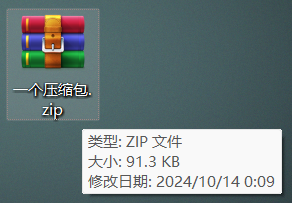
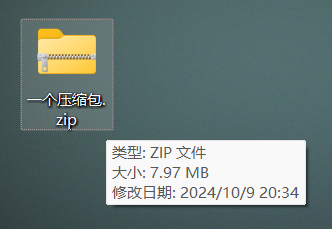
update

diff --git a/docs/tutorial/unzip.md b/docs/tutorial/unzip.md
@@ -1,20 +1,16 @@
 # 指南：压缩与解压缩
 
-::: warning :pencil2: 编辑中
-本页面还在编辑中，可能存在缺失段落、排版异常等问题。
-:::
-
 有时，我们会遇到一种特殊的[文件](/concept/file)，它的内部包含了许多其它文件，就像文件夹一样。这种像文件夹一样包含了许多文件、但是自己本身就是一个独立的文件，我们称之为**压缩包**，或者叫**压缩文件**。
 
 ::: details 常见的压缩文件[后缀名](/concept/file_extension)
-最常用的压缩文件后缀名是 .zip、.rar、.7z。这三种后缀名分别代表了 3 种不同的压缩方式。也有 .lz4、.tar、.zipx、.iso 等不常见的格式。
+最常用的压缩文件后缀名是 ```.zip``` ```.rar``` ```.7z```。这三种后缀名分别代表了 3 种不同的压缩方式。也有 ```.lz4``` ```.tar``` ```.zipx``` ```.iso``` 等不常见的格式。
 :::
 
 不同的压缩软件显示的压缩包图标：（其中，WinRAR 的「皮带绑书」图标是最经典的压缩包图标，已经成为了压缩包的代表性标志）
 
 | ![1](/pic/windows_explorer_zip_icon.png) | ![2](/pic/bandizip_zip_icon.png) | ![3](/pic/winrar_zip_icon.png) |
-|:----------------------------------------:|:--------------------------------:|:------------------------------:|
-| Windows 11 自带                            | Bandizip                         | WinRAR                         |
+|:----:|:------:|:------:|
+| Windows 11 自带 | Bandizip| WinRAR|
 
 压缩包与文件夹有许多不同之处：
 
@@ -38,14 +34,46 @@
 
 | ![4](/pic/do_not_extract_online.png) |
 |:------------------------------------:|
-| 不应在线查看压缩包，正确的做法是先下载到电脑中再打开           |
+| 不应在线查看压缩包，正确的做法是先下载到电脑中再打开|
 
-得到压缩包后，首先[检查文件的类型](/tutorial/check_file_type)。把鼠标指针指向文件图标，悬停不动，会出现一个提示框。如果显示的类型是 ZIP、RAR 或 7Z 文件，则说明这确实是一个压缩包，可以双击打开。
+得到压缩包后，首先[检查文件的类型](/tutorial/check_file_type)。把鼠标指针指向文件图标，悬停不动，会出现一个提示框。如果显示的类型是 ```ZIP``` ```RAR``` 或 ```7Z``` 文件，则说明这确实是一个压缩包，可以进行接下来的操作。
 
 | ![5](/pic/check_file_type.png) |
 |:------------------------------:|
-| 通过鼠标悬停的提示信息判断文件类型              |
+| 通过鼠标悬停的提示信息判断文件类型|
 
-而如果这是一个[EXE 可执行文件](/concept/program)，就应当留意：这是一个**程序**，它既有可能是一个安全的[自解压程序](/concept/zip#自解压程序)（或者根本不是压缩包），也有可能是一个伪装成压缩包的[恶意程序（病毒）](/concept/malware)。这种情况下，请再次[确认文件是否安全](/tutorial/security_check)。
+::: details 我发现这不是一个 ```ZIP``` ```RAR``` 或 ```7Z``` 文件，怎么办？
+请参考[指南：检查文件类型](/tutorial/check_file_type)，尝试判断这个文件实际上是什么类型。比如，如果文件后缀名和压缩文件很像，类似 ```zi删p``` ```rar1``` 这样的后缀名，则可以手动把后缀名改成正确的 ```zip``` ```rar```。
+:::
+
+现在，可以双击打开这个压缩包，查看里面的内容。确认其中是自己需要的内容后，用鼠标右键点击这个压缩包，在弹出的右键菜单中，点击「全部解压缩」「自动解压」等选项，然后，在弹出的窗口中点击「提取」或「确定」，就可以解压缩了。
+
+![6](/pic/unzip_all.png)
+
+![7](/pic/unzip_folder.png)
+
+::: details 弹出一个窗口让我输入密码，该怎么办？
+压缩包可以设置密码，这个密码并不是电脑密码或账号密码，而是每个压缩文件都单独设置的。这时，应该回到下载这个压缩包的地方，比如游戏网站、B 站视频，在下载按钮周围、视频简介等位置寻找密码。
+:::
+
+解压缩完成后，可以在压缩包的所在位置发现一个或者很多个新的文件，这就是我们从压缩包中得到的文件。
 
 ## 压缩
+
+有时候，我们需要把大量文件通过网络发送给其他人，但是如果直接发送零散的文件，可能会遇到各种问题：
+
+|![8](/pic/weixin_unsupport_folder.png)|
+|:------------------------------:|
+| 微信无法发送文件夹|
+
+这时，我们就需要把多个文件压缩成一个压缩包，从而发送出去。首先，从空白处开始拖动鼠标，选择所有需要发送的文件：
+
+|![8](/pic/select_multiple_file.png)|
+|:------------------------------:|
+| 拖动鼠标选择多个文件|
+
+右键点击被选中的文件，点击「压缩到...」→「Zip文件」，点击「创建」就可以把这些文件制作成单个的压缩包了。
+
+![9](/pic/compress_to_zip.png)
+
+![10](/pic/confirm_compress.png)
